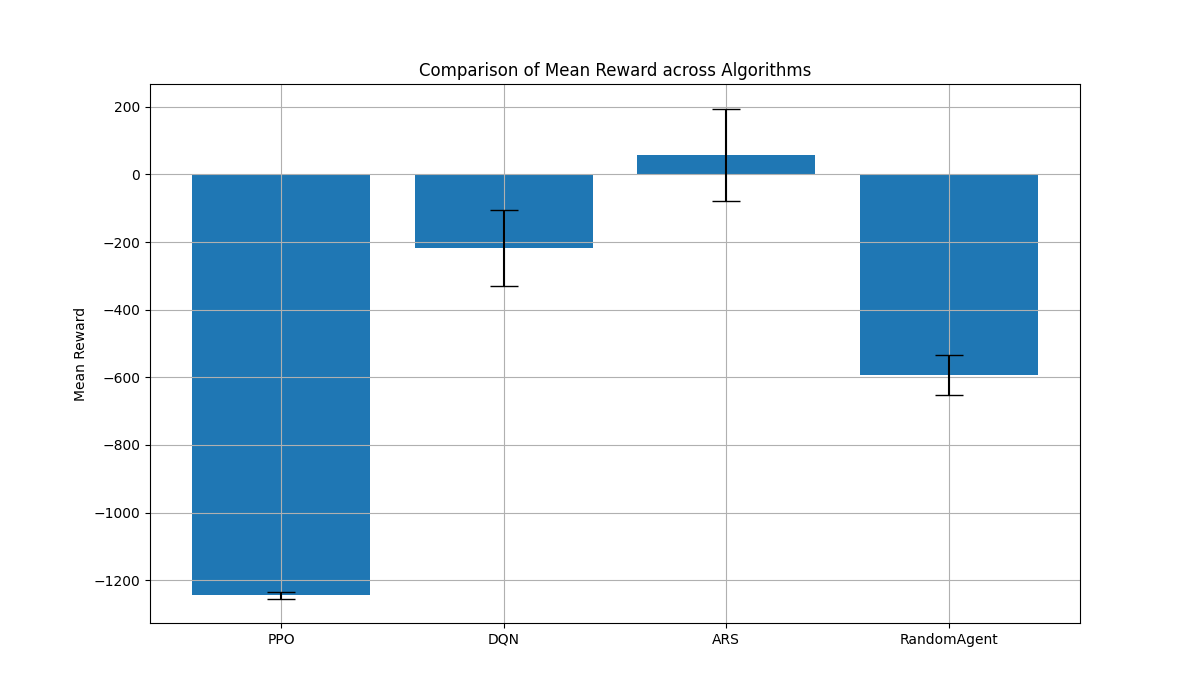
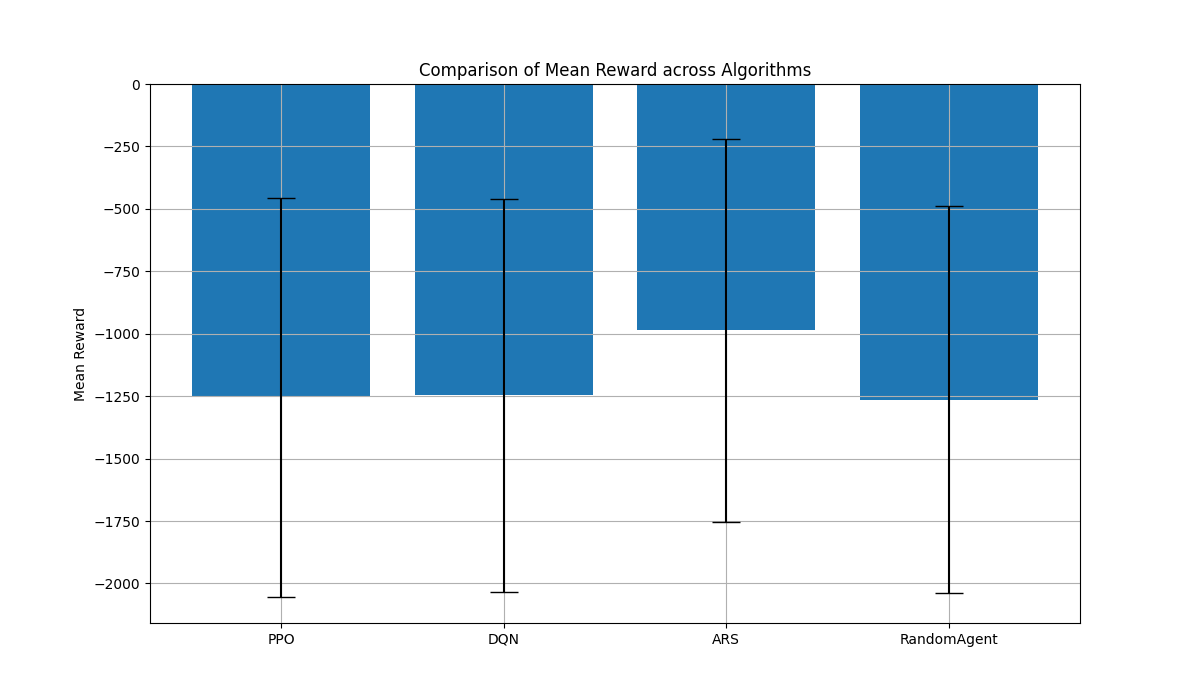
add mean yield and mean irrigation on evaluation

diff --git a/train.py b/train.py
@@ -15,7 +15,7 @@ import logging
 warnings.filterwarnings("ignore", category=FutureWarning)
 logging.basicConfig(level=logging.WARNING)
 
-# Custom callback for logging and plotting rewards and irrigation
+# Custom callback for logging and plotting rewards, yields, and irrigation
 class RewardLoggingCallback(BaseCallback):
     def __init__(self, experiment, verbose=0):
         super(RewardLoggingCallback, self).__init__(verbose)
@@ -25,6 +25,8 @@ class RewardLoggingCallback(BaseCallback):
         self.current_rewards = 0
         self.highest_reward = -np.inf
         self.best_schedule = []
+        self.yields = []  # To store yield values for each episode
+        self.irrigations = []  # To store irrigation values for each episode
 
     def _on_step(self) -> bool:
         if 'rewards' in self.locals:
@@ -33,7 +35,18 @@ class RewardLoggingCallback(BaseCallback):
 
         if 'dones' in self.locals and any(self.locals['dones']):
             env = self.locals['env'].envs[0]
-            total_irrigation = env.unwrapped.model._outputs.final_stats['Seasonal irrigation (mm)'].mean()
+            info = self.locals['infos'][0]  # Access the info dictionary from the environment
+
+            dry_yield = info.get('dry_yield', float('nan'))
+            total_irrigation = info.get('total_irrigation', float('nan'))
+
+            if not np.isnan(dry_yield) and not np.isnan(total_irrigation):
+                print(f"Episode ended. Dry yield: {dry_yield}, Total irrigation: {total_irrigation}")
+
+                self.yields.append(dry_yield)
+                self.irrigations.append(total_irrigation)
+            else:
+                print("Final stats not available or contain NaN values.")
 
             self.episode_rewards.append(self.current_rewards)
             self.episode_schedules.append(env.unwrapped.irrigation_schedule)
@@ -52,6 +65,18 @@ class RewardLoggingCallback(BaseCallback):
     def _on_training_end(self):
         self.plot_rewards()
         self.plot_irrigation_schedule()
+
+        # Calculate and log mean yield and irrigation at the end of training
+        if self.yields and self.irrigations:
+            mean_yield = np.mean(self.yields)
+            mean_irrigation = np.mean(self.irrigations)
+        else:
+            mean_yield = float('nan')
+            mean_irrigation = float('nan')
+
+        self.experiment.log_metric("mean_yield", mean_yield)
+        self.experiment.log_metric("mean_irrigation", mean_irrigation)
+        print(f"Mean Yield: {mean_yield}, Mean Irrigation: {mean_irrigation}")
 
     def plot_rewards(self):
         plt.figure(figsize=(10, 5))
@@ -75,7 +100,6 @@ class RewardLoggingCallback(BaseCallback):
             print("Irrigation schedule plot saved as best_irrigation_schedule_plot.png")
         else:
             print("No irrigation schedule found for any episode.")
-
 
 # Initialize Comet.ml experiment in offline mode
 experiment = OfflineExperiment(
@@ -133,9 +157,10 @@ class RandomAgent:
 # Initialize the random agent
 random_agent = RandomAgent(train_env.action_space)
 
-# Train and evaluate PPO, DQN, and ARS
 mean_rewards = []
 std_rewards = []
+mean_yields = []
+mean_irrigations = []
 agents = []
 
 for name, model in algorithms.items():
@@ -147,22 +172,68 @@ for name, model in algorithms.items():
     print(f"Evaluating {name}...")
     mean_reward, std_reward = evaluate_policy(model, eval_env, n_eval_episodes=1000, return_episode_rewards=False, deterministic=False)
     
+    # Calculate mean yield and irrigation over evaluation episodes
+    yields = []
+    irrigations = []
+    
+    for _ in range(10):  # Assuming you want to evaluate over 10 episodes
+        obs, done = eval_env.reset(), False
+        while not done:
+            action, _states = model.predict(obs, deterministic=True)
+            obs, reward, done, info = eval_env.step(action)
+            if done:
+                dry_yield = info[0].get('dry_yield', float('nan'))
+                total_irrigation = info[0].get('total_irrigation', float('nan'))
+                yields.append(dry_yield)
+                irrigations.append(total_irrigation)
+                print(f"Evaluation Episode Ended. Dry yield: {dry_yield}, Total irrigation: {total_irrigation}")
+
+    mean_yield = np.mean(yields) if yields else float('nan')
+    mean_irrigation = np.mean(irrigations) if irrigations else float('nan')
+
     experiment.log_metric(f"{name}_mean_reward", mean_reward)
     experiment.log_metric(f"{name}_std_reward", std_reward)
+    experiment.log_metric(f"{name}_mean_yield", mean_yield)
+    experiment.log_metric(f"{name}_mean_irrigation", mean_irrigation)
     
     mean_rewards.append(mean_reward)
     std_rewards.append(std_reward)
+    mean_yields.append(mean_yield)
+    mean_irrigations.append(mean_irrigation)
     agents.append(name)
 
 # Evaluate the Random Agent
 print("Evaluating Random Agent...")
 mean_reward, std_reward = evaluate_policy(random_agent, eval_env, n_eval_episodes=1000, return_episode_rewards=False)
 
+# Repeating the yield and irrigation logging for the Random Agent
+yields = []
+irrigations = []
+
+for _ in range(10):  # Assuming you want to evaluate over 10 episodes
+    obs, done = eval_env.reset(), False
+    while not done:
+        action, _states = random_agent.predict(obs)
+        obs, reward, done, info = eval_env.step(action)
+        if done:
+            dry_yield = info[0].get('dry_yield', float('nan'))
+            total_irrigation = info[0].get('total_irrigation', float('nan'))
+            yields.append(dry_yield)
+            irrigations.append(total_irrigation)
+            print(f"Evaluation Episode Ended. Dry yield: {dry_yield}, Total irrigation: {total_irrigation}")
+
+mean_yield = np.mean(yields) if yields else float('nan')
+mean_irrigation = np.mean(irrigations) if irrigations else float('nan')
+
 experiment.log_metric(f"RandomAgent_mean_reward", mean_reward)
 experiment.log_metric(f"RandomAgent_std_reward", std_reward)
+experiment.log_metric(f"RandomAgent_mean_yield", mean_yield)
+experiment.log_metric(f"RandomAgent_mean_irrigation", mean_irrigation)
 
 mean_rewards.append(mean_reward)
 std_rewards.append(std_reward)
+mean_yields.append(mean_yield)
+mean_irrigations.append(mean_irrigation)
 agents.append("RandomAgent")
 
 # End Comet.ml experiment
@@ -170,14 +241,34 @@ experiment.end()
 
 # Print final evaluation results
 for i, agent in enumerate(agents):
-    print(f"{agent} - Mean Reward: {mean_rewards[i]}, Std Dev: {std_rewards[i]}")
+    print(f"{agent} - Mean Reward: {mean_rewards[i]}, Std Dev: {std_rewards[i]}, Mean Yield: {mean_yields[i]}, Mean Irrigation: {mean_irrigations[i]}")
 
 # Plot comparison of Mean Rewards
 plt.figure(figsize=(12, 7))
-plt.bar(agents, mean_rewards, yerr=std_rewards, capsize=10)
+plt.bar(agents, mean_rewards, yerr=std_rewards, capsize=10, color='blue')
 plt.ylabel('Mean Reward')
 plt.title('Comparison of Mean Reward across Algorithms')
 plt.grid(True)
-plt.savefig('algorithm_comparison.png')
-print("Comparison plot saved as algorithm_comparison.png")
+plt.savefig('algorithm_comparison_reward.png')
+print("Reward comparison plot saved as algorithm_comparison_reward.png")
+plt.show()
+
+# Plot comparison of Mean Yields
+plt.figure(figsize=(12, 7))
+plt.bar(agents, mean_yields, yerr=np.std(mean_yields), capsize=10, color='green')
+plt.ylabel('Mean Yield (tonne/ha)')
+plt.title('Comparison of Mean Yield across Algorithms')
+plt.grid(True)
+plt.savefig('algorithm_comparison_yield.png')
+print("Yield comparison plot saved as algorithm_comparison_yield.png")
+plt.show()
+
+# Plot comparison of Mean Irrigation
+plt.figure(figsize=(12, 7))
+plt.bar(agents, mean_irrigations, yerr=np.std(mean_irrigations), capsize=10, color='orange')
+plt.ylabel('Mean Irrigation (mm)')
+plt.title('Comparison of Mean Irrigation across Algorithms')
+plt.grid(True)
+plt.savefig('algorithm_comparison_irrigation.png')
+print("Irrigation comparison plot saved as algorithm_comparison_irrigation.png")
 plt.show()

diff --git a/aquacroprice/envs/rice.py b/aquacroprice/envs/rice.py
@@ -49,7 +49,7 @@ class Rice(gym.Env):
         # Define observation space: Includes weather-related observations
         self.observation_space = spaces.Box(low=-np.inf, high=np.inf, shape=(14,), dtype=np.float32)
         
-        self.action_depths = [0, 5, 10, 15, 20, 25]
+        self.action_depths = [0, 25]
         self.action_space = spaces.Discrete(len(self.action_depths))  # Discrete action space with 6 actions
 
     def reset(self, seed=None, options=None):
@@ -177,19 +177,27 @@ class Rice(gym.Env):
         current_timestep = self.model._clock_struct.time_step_counter
         self.irrigation_schedule.append((current_timestep, depth))  # Log the applied irrigation depth
         
+        # Initialize dry_yield and total_irrigation in the info dictionary with default values (e.g., 0.0 or nan)
+        info = {'dry_yield': 0.0, 'total_irrigation': 0.0}
+
         if terminated:
             dry_yield = self.model._outputs.final_stats['Dry yield (tonne/ha)'].mean()
             total_irrigation = self.model._outputs.final_stats['Seasonal irrigation (mm)'].mean()
             
             if total_irrigation == 0:
-                reward = -10  # Fixed penalty reward
+                reward = -10  # Apply small negative fixed reward for 0 irrigation
             else:
-                reward = (dry_yield ** 3) - ((total_irrigation + 1) * 15)
+                reward = ((dry_yield + 1) ** 3) - ((total_irrigation + 1) * 15)
+
+            # Store the final values in the info dictionary
+            info['dry_yield'] = dry_yield
+            info['total_irrigation'] = total_irrigation
 
             print(f"Dry Yield: {dry_yield}")
             print(f"Total Irrigation: {total_irrigation}")
             print(f"Final Reward: {reward}")
-        
-        info = dict()
 
         return next_obs, reward, terminated, truncated, info
+
+
+
